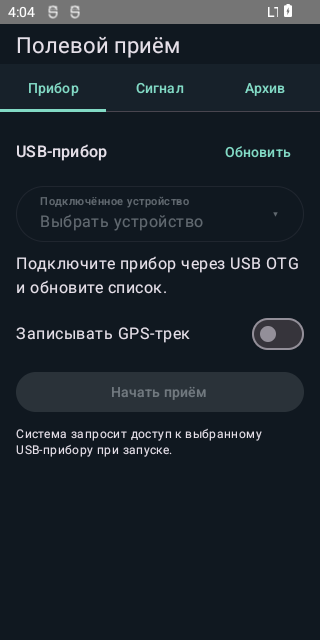
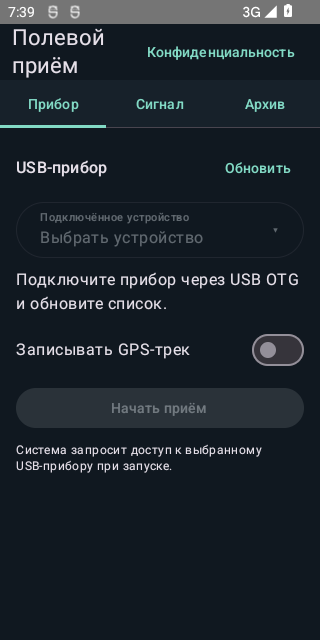
Show the offline privacy entry in the actual Android startup screen

diff --git a/docs/operator-guide/index.html b/docs/operator-guide/index.html
@@ -47,6 +47,7 @@ systemctl is-active openradioinspector-pi-rc</code></pre>
 <p>Зелёная кнопка <strong>LIVE</strong> под водопадом возвращает просмотр к последним данным и снимает паузу показа. Статус анализатора указан над спектром, состояние записи и обоих приборов — в нижней строке. На снимке видны «ПРИЁМ ОСТАНОВЛЕН», «Запись остановлена» и последний свип 22 секунды назад. Для начала измерений нажмите «Начать приём». Проверьте, что появляются новые UTC и состояние «Запись идёт».</p>
 </section>
 <section id="field"><h2>Выезд с Android Field</h2>
+<p>Кнопка «Конфиденциальность» вверху открывает на телефоне правила хранения выезда и адрес поддержки. Эту страницу можно прочитать без интернета.</p>
 <figure><a href="images/android-field-usb.png"><img src="images/android-field-usb.png" width="320" height="640" alt="Вкладка «Прибор»: список устройств пуст, GPS отключён, кнопка «Начать приём» недоступна."></a><figcaption>Первый экран Field 0.1.0 на эмуляторе Android 12. После подключения прибора через USB OTG нажмите «Обновить».</figcaption></figure>
 <ol>
 <li>Подключите один приёмник к телефону кабелем для данных через USB OTG. Выберите устройство, профиль и диапазон. Для AR-DV1 подготовьте его собственное питание. Если список пуст, проверьте кабель и питание, затем обновите его.</li>

diff --git a/docs/release/all-platforms.md b/docs/release/all-platforms.md
@@ -41,7 +41,7 @@
 
 ## Иллюстрации, лицензии и магазин
 
-В ведомости руководства есть исходные PNG четырёх экранов WebUI на Debian x86-64, одного экрана пакета Pi на виртуальной ARM64 Ubuntu, двух окон установленных инженерных Windows-сборок и двух окон macOS на MacBook Air из ad-hoc DMG. Мобильные примеры показывают настройку Android Field на эмуляторе API 31 из прогона `fc23e5b0` и выезд в iPhone Field на симуляторе iOS 27.2 по исходникам `221b9ddb`. Все 11 PNG входят в офлайн-руководство с контрольными суммами. В каждом случае источник — интерфейс ORI с учебными данными. Дату, ревизию, хеш, оконную систему и режим показывает ведомость или протокол CI. Для физических Pi, Windows 11, Debian-ПК, подписанного Mac, S22 и второй очереди iPhone нужны снимки принятой версии на соответствующей машине. [Ведомость иллюстраций](../operator-guide/captures.json) · [Результаты Android со снимком](https://github.com/qlolp/openradioinspector/actions/runs/45041301657/artifacts/14761863412)
+В ведомости руководства есть исходные PNG четырёх экранов WebUI на Debian x86-64, одного экрана пакета Pi на виртуальной ARM64 Ubuntu, двух окон установленных инженерных Windows-сборок и двух окон macOS на MacBook Air из ad-hoc DMG. Мобильные примеры показывают настройку Android Field на эмуляторе API 31 из прогона `4dcd0ea9` и выезд в iPhone Field на симуляторе iOS 27.2 по исходникам `221b9ddb`. Все 11 PNG входят в офлайн-руководство с контрольными суммами. В каждом случае источник — интерфейс ORI с учебными данными. Дату, ревизию, хеш, оконную систему и режим показывает ведомость или протокол CI. Для физических Pi, Windows 11, Debian-ПК, подписанного Mac, S22 и второй очереди iPhone нужны снимки принятой версии на соответствующей машине. [Ведомость иллюстраций](../operator-guide/captures.json) · [Результаты Android со снимком](https://github.com/qlolp/openradioinspector/actions/runs/45061401605/artifacts/14769583593)
 
 На каждом принятом пакете открыть учебный проект. Снять настройку прибора, рабочий экран, исходную запись и восстановление после разрыва. На Android снять запись и сохранённый выезд. На iPhone снять открытие файла из «Файлов» и просмотр архива сопряжённого узла. Внести в ведомость платформу, сборку, источник учебных данных, размеры PNG, SHA-256 и способ получения. Для магазина дополнить комплект реальным экраном телефона, публичной политикой, адресом поддержки издателя `9218907903@mail.ru` и демонстрацией уведомления активного сбора USB/GPS и его остановки. [Руководство](../operator-guide/index.html) · [Карточка Play](../field/play-listing.md) · [Политика Field](../field/privacy.md)
 
